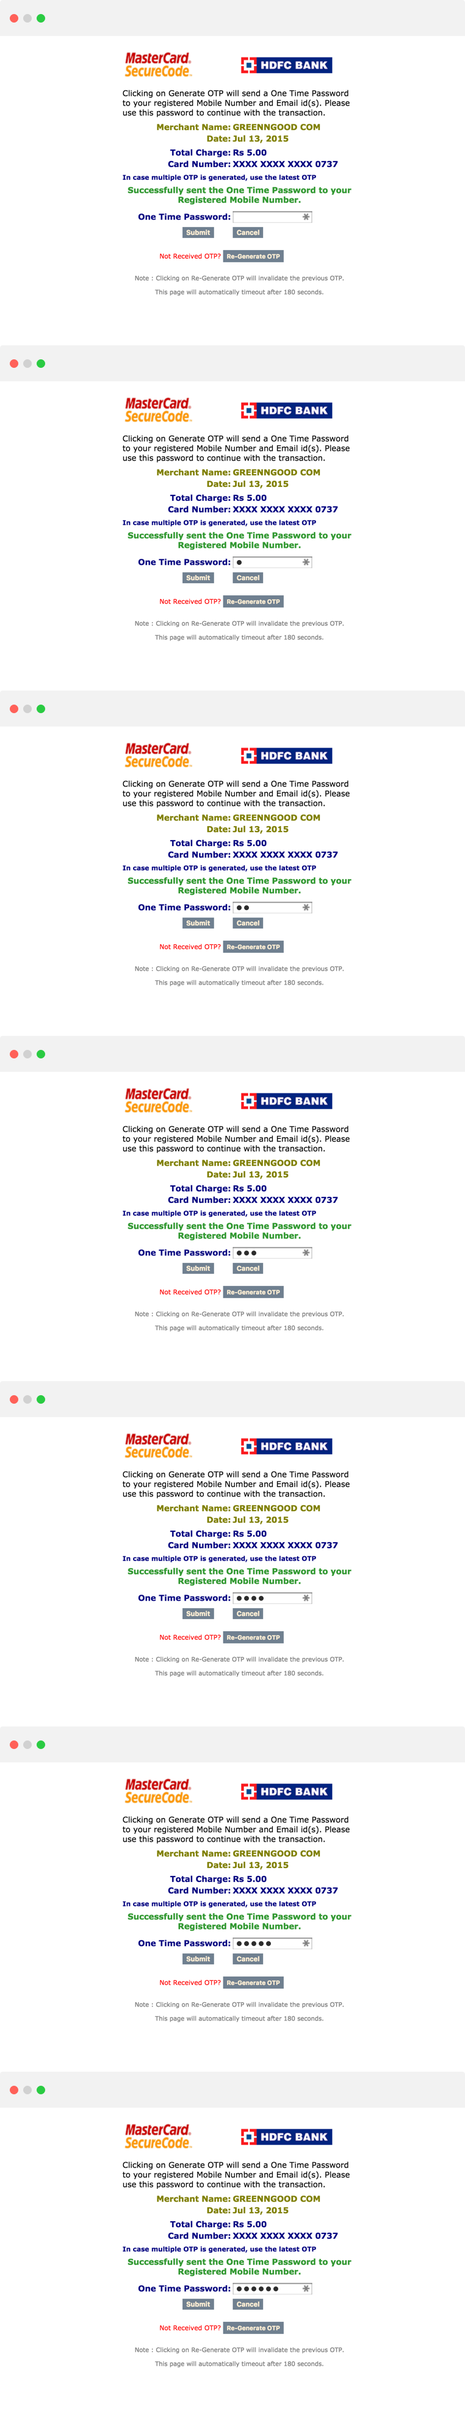
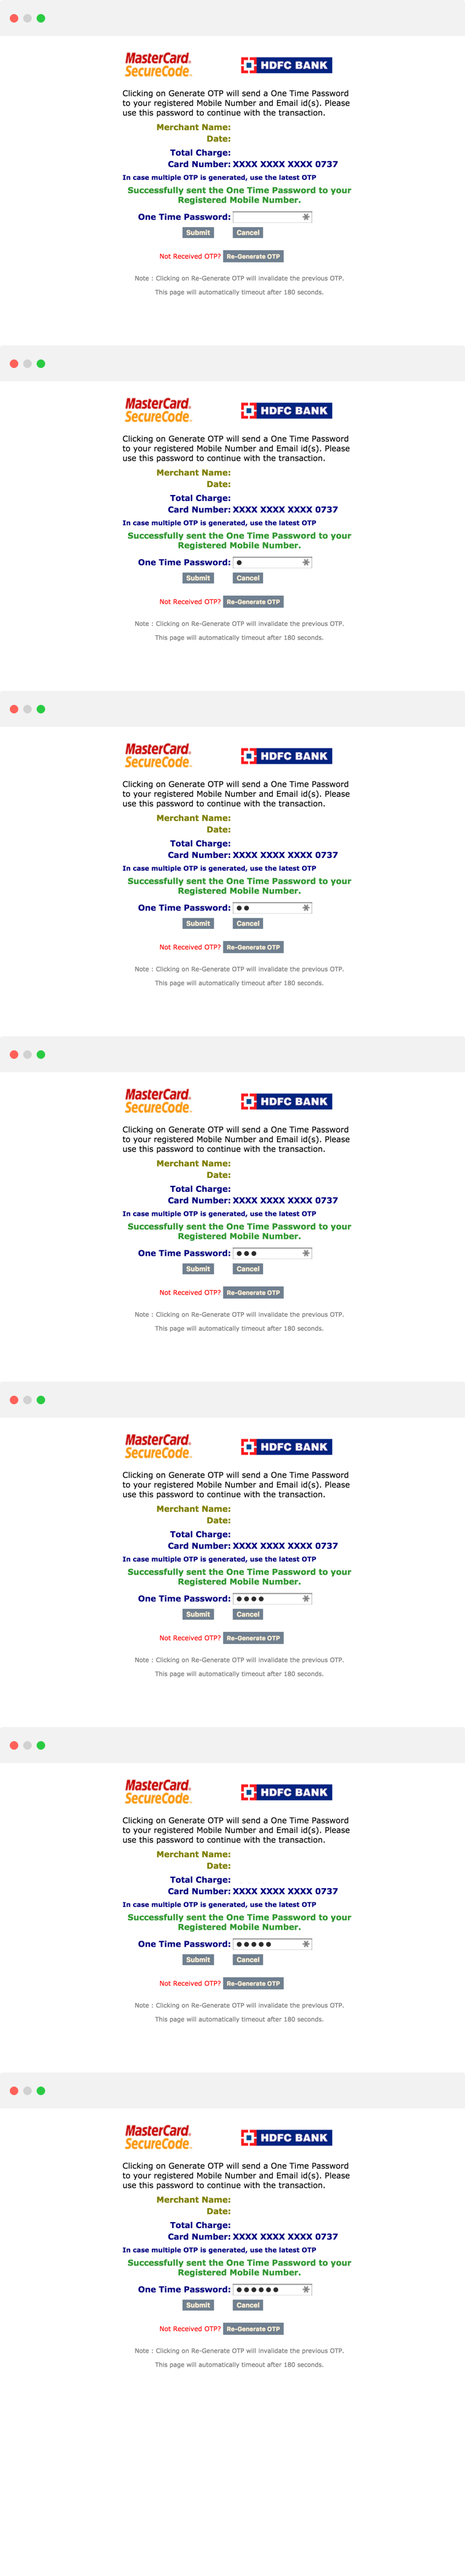
Merchant name and date in otp window now dynamic

Changed region(s): [[0.2717, 0.1552, 0.7546, 0.9934], [0.2717, 0.0, 0.7546, 0.1242], [0.0302, 0.1242, 0.0906, 0.1552]]

diff --git a/public/css/main.css b/public/css/main.css
@@ -405,6 +405,12 @@ article, aside, details, figcaption, figure, footer, header, hgroup, main, menu,
   transform: rotateY(30deg) translateZ(30px);
 }
 /* line 106, ../../src/Styles/Components/_App.scss */
+.f-anim-s2 .masterCardContainer:before, .f-anim-s2 .masterCardContainer:after {
+  transition: opacity 0.1s;
+  transition-delay: 0.25s;
+  opacity: 1;
+}
+/* line 112, ../../src/Styles/Components/_App.scss */
 .f-anim-s2 .masterCardContainer .masterCardWindow {
   -moz-transition: -moz-transform 0.35s cubic-bezier(0, 1.03, 0.58, 1.02);
   -o-transition: -o-transform 0.35s cubic-bezier(0, 1.03, 0.58, 1.02);
@@ -421,17 +427,23 @@ article, aside, details, figcaption, figure, footer, header, hgroup, main, menu,
   -webkit-animation-delay: 1s;
   animation-delay: 1s;
 }
-/* line 111, ../../src/Styles/Components/_App.scss */
+/* line 117, ../../src/Styles/Components/_App.scss */
 .f-anim-s2 .masterCardContainer .masterCardWindow:after {
   animation: tap-gesture 0.5s;
   animation-delay: 3.5s;
 }
 
-/* line 121, ../../src/Styles/Components/_App.scss */
+/* line 127, ../../src/Styles/Components/_App.scss */
 .f-anim-s3 .paymentModal {
   opacity: 0;
 }
-/* line 125, ../../src/Styles/Components/_App.scss */
+/* line 132, ../../src/Styles/Components/_App.scss */
+.f-anim-s3 .masterCardContainer:before, .f-anim-s3 .masterCardContainer:after {
+  transition-delay: 0s;
+  transition: opacity 0s;
+  opacity: 0;
+}
+/* line 138, ../../src/Styles/Components/_App.scss */
 .f-anim-s3 .masterCardContainer .masterCardWindow {
   -moz-transform: scale(0);
   -ms-transform: scale(0);
@@ -439,7 +451,7 @@ article, aside, details, figcaption, figure, footer, header, hgroup, main, menu,
   transform: scale(0);
 }
 
-/* line 133, ../../src/Styles/Components/_App.scss */
+/* line 147, ../../src/Styles/Components/_App.scss */
 .f-anim-s4 .masterCardContainer .paymentConfirmationWindow {
   -moz-transform: scale(1) translate3d(-50%, -50%, 0);
   -ms-transform: scale(1) translate3d(-50%, -50%, 0);
@@ -447,7 +459,7 @@ article, aside, details, figcaption, figure, footer, header, hgroup, main, menu,
   transform: scale(1) translate3d(-50%, -50%, 0);
 }
 
-/* line 141, ../../src/Styles/Components/_App.scss */
+/* line 155, ../../src/Styles/Components/_App.scss */
 .f-anim-s5 .paymentModal {
   -moz-transition: -moz-transform 0.7s ease-in-out;
   -o-transition: -o-transform 0.7s ease-in-out;
@@ -458,7 +470,7 @@ article, aside, details, figcaption, figure, footer, header, hgroup, main, menu,
   -webkit-transform: rotateY(0);
   transform: rotateY(0);
 }
-/* line 146, ../../src/Styles/Components/_App.scss */
+/* line 160, ../../src/Styles/Components/_App.scss */
 .f-anim-s5 .backdropContainer {
   -moz-transition: -moz-transform 0.7s ease-in-out;
   -o-transition: -o-transform 0.7s ease-in-out;
@@ -469,7 +481,7 @@ article, aside, details, figcaption, figure, footer, header, hgroup, main, menu,
   -webkit-transform: rotateY(0);
   transform: rotateY(0);
 }
-/* line 151, ../../src/Styles/Components/_App.scss */
+/* line 165, ../../src/Styles/Components/_App.scss */
 .f-anim-s5 .masterCardContainer {
   -moz-transition: -moz-transform 0.7s ease-in-out;
   -o-transition: -o-transform 0.7s ease-in-out;
@@ -1080,8 +1092,35 @@ article, aside, details, figcaption, figure, footer, header, hgroup, main, menu,
   width: 100%;
   z-index: 999;
   transform: translateZ(30px);
+  white-space: pre;
 }
-/* line 14, ../../src/Styles/Components/_Foreground.scss */
+/* line 15, ../../src/Styles/Components/_Foreground.scss */
+.masterCardContainer:before {
+  position: absolute;
+  color: forestgreen;
+  content: attr(data-mname);
+  top: 400px;
+  left: 841px;
+  display: block;
+  z-index: 9999;
+  font-weight: 900;
+  font-size: 14px;
+  opacity: 0;
+}
+/* line 28, ../../src/Styles/Components/_Foreground.scss */
+.masterCardContainer:after {
+  position: absolute;
+  color: forestgreen;
+  content: attr(data-date);
+  top: 418px;
+  left: 841px;
+  display: block;
+  z-index: 9999;
+  font-weight: 900;
+  font-size: 14px;
+  opacity: 0;
+}
+/* line 41, ../../src/Styles/Components/_Foreground.scss */
 .masterCardContainer .masterCardWindow {
   position: relative;
   width: 762px;
@@ -1091,7 +1130,7 @@ article, aside, details, figcaption, figure, footer, header, hgroup, main, menu,
   transition: transform 0.5s cubic-bezier(0.01, 0.66, 0.22, 1.25);
   transform: scale(0);
 }
-/* line 22, ../../src/Styles/Components/_Foreground.scss */
+/* line 50, ../../src/Styles/Components/_Foreground.scss */
 .masterCardContainer .masterCardWindow:after {
   position: absolute;
   top: 355px;
@@ -1106,21 +1145,19 @@ article, aside, details, figcaption, figure, footer, header, hgroup, main, menu,
   transform: scale(1.3);
   opacity: 0.0;
 }
-/* line 37, ../../src/Styles/Components/_Foreground.scss */
+/* line 65, ../../src/Styles/Components/_Foreground.scss */
 .masterCardContainer .masterCardWindow:before {
   position: absolute;
   top: 242px;
   left: 381px;
   content: attr(data-amount);
-  color: white;
   font-weight: 900;
   font-size: 15px;
   color: #00007D;
   display: block;
   background: white;
-  width: 200px;
 }
-/* line 52, ../../src/Styles/Components/_Foreground.scss */
+/* line 78, ../../src/Styles/Components/_Foreground.scss */
 .masterCardContainer .paymentConfirmationWindow {
   position: absolute;
   top: 50%;
@@ -1134,23 +1171,23 @@ article, aside, details, figcaption, figure, footer, header, hgroup, main, menu,
   padding: 30px;
   box-shadow: 0px 2px 4px rgba(0, 0, 0, 0.3);
 }
-/* line 64, ../../src/Styles/Components/_Foreground.scss */
+/* line 90, ../../src/Styles/Components/_Foreground.scss */
 .masterCardContainer .paymentConfirmationWindow h1 {
   font-size: 18px;
   font-weight: 700;
 }
-/* line 68, ../../src/Styles/Components/_Foreground.scss */
+/* line 94, ../../src/Styles/Components/_Foreground.scss */
 .masterCardContainer .paymentConfirmationWindow .row {
   display: flex;
   width: 100%;
   padding: 30px 0 0 0;
 }
-/* line 72, ../../src/Styles/Components/_Foreground.scss */
+/* line 98, ../../src/Styles/Components/_Foreground.scss */
 .masterCardContainer .paymentConfirmationWindow .row .left-col,
 .masterCardContainer .paymentConfirmationWindow .row .right-col {
   flex: 1;
 }
-/* line 76, ../../src/Styles/Components/_Foreground.scss */
+/* line 102, ../../src/Styles/Components/_Foreground.scss */
 .masterCardContainer .paymentConfirmationWindow .row .right-col {
   text-align: right;
 }

diff --git a/src/Styles/Components/_Foreground.scss b/src/Styles/Components/_Foreground.scss
@@ -10,6 +10,33 @@
   width: 100%;
   z-index: 999;
   transform: translateZ(30px);
+  white-space:pre;
+
+  &:before {
+    position: absolute;
+    color: forestgreen;
+    content: attr(data-mname);
+    top: 400px;
+    left: 841px;
+    display: block;
+    z-index: 9999;
+    font-weight: 900;
+    font-size: 14px;
+    opacity: 0;
+  }
+
+  &:after {
+    position: absolute;
+    color: forestgreen;
+    content: attr(data-date);
+    top: 418px;
+    left: 841px;
+    display: block;
+    z-index: 9999;
+    font-weight: 900;
+    font-size: 14px;
+    opacity: 0;
+  }
 
   .masterCardWindow {
     position: relative;
@@ -19,6 +46,7 @@
     background: url('../images/mastercard.png') 0 0 no-repeat;
     transition: transform 0.5s $spring-easing;
     transform: scale(0);
+    // Tap Gesture
     &:after {
       position: absolute;
       top: 355px;
@@ -33,19 +61,17 @@
       transform: scale(1.3);
       opacity: 0.0;
     }
-
+    // Amount
     &:before {
       position: absolute;
       top: 242px;
       left: 381px;
       content: attr(data-amount);
-      color: white;
       font-weight: 900;
       font-size: 15px;
       color:#00007D;
       display: block;
       background:white;
-      width: 200px;
     }
   }
 

diff --git a/src/Components/Foreground.js b/src/Components/Foreground.js
@@ -1,14 +1,34 @@
 import React, {Component, PropTypes} from 'react';
 
+var monthNames = [
+  "January", "February", "March",
+  "April", "May", "June", "July",
+  "August", "September", "October",
+  "November", "December"
+];
+
+var date = new Date();
+var day = date.getDate();
+var monthIndex = date.getMonth();
+var year = date.getFullYear();
+
+var formattedDate = `${day} ${monthNames[monthIndex]}, ${year}`;
+
 class Foreground extends Component {
   static PropTypes = {
-    amount: PropTypes.number,
-    desc: PropTypes.string
+    amount: PropTypes.number.isRequired,
+    desc: PropTypes.string.isRequired,
+    name: PropTypes.string.isRequired
   }
 
   render() {
     return (
-      <div className="masterCardContainer" ref="masterCardContainer">
+      <div
+        className="masterCardContainer"
+        ref="masterCardContainer"
+        data-mname={this.props.name}
+        data-date={formattedDate}
+      >
         <div className="masterCardWindow" ref="masterCardWindow" data-amount={`Rs ${this.props.amount}`}>
         </div>
         <div className="paymentConfirmationWindow">

diff --git a/src/Components/App.js b/src/Components/App.js
@@ -359,18 +359,19 @@ class App extends Component {
 
           <Foreground
             amount={currentAmount}
+            name={currentMerchantName}
             desc={currentPaymentDesc}
           />
 
           {/*<ConditionalComp visible={this.state.demoMode}/>*/}
-          <ConditionalComp visible={this.state.demoMode && this.state.demoStep <= 2}>
+          <ConditionalComp visible={this.state.demoMode}>
             <ButtonPrimary
               id="btnStepDemoBack"
               fireOnClick={this.stepDemoBackward}/>
           </ConditionalComp>
 
           {/*<ConditionalComp visible={this.state.demoMode}>*/}
-          <ConditionalComp visible={this.state.demoMode && this.state.demoStep >= 2 && false}>
+          <ConditionalComp visible={this.state.demoMode && this.state.demoStep >= 2}>
             <ButtonPrimary
               id="btnStepDemoForward"
               fireOnClick={this.stepDemoForward}/>

diff --git a/src/Styles/Components/_App.scss b/src/Styles/Components/_App.scss
@@ -103,6 +103,12 @@ $rotation: 30deg;
   .masterCardContainer {
     visibility: visible;
     @include transform(rotateY($rotation) translateZ(30px));
+    &:before,
+    &:after {
+      transition: opacity 0.1s;
+      transition-delay: 0.25s;
+      opacity: 1;
+    }
     .masterCardWindow {
       @include transition(transform 0.35s cubic-bezier(0,1.03,.58,1.02));
       @include transform (scale(0.9));
@@ -122,8 +128,16 @@ $rotation: 30deg;
     opacity: 0;
   }
 
-  .masterCardContainer .masterCardWindow {
-    @include transform(scale(0));
+  .masterCardContainer {
+    &:before,
+    &:after{
+      transition-delay: 0s;
+      transition: opacity 0s;
+      opacity: 0;
+    }
+    .masterCardWindow {
+      @include transform(scale(0));
+    }
   }
 }
 
